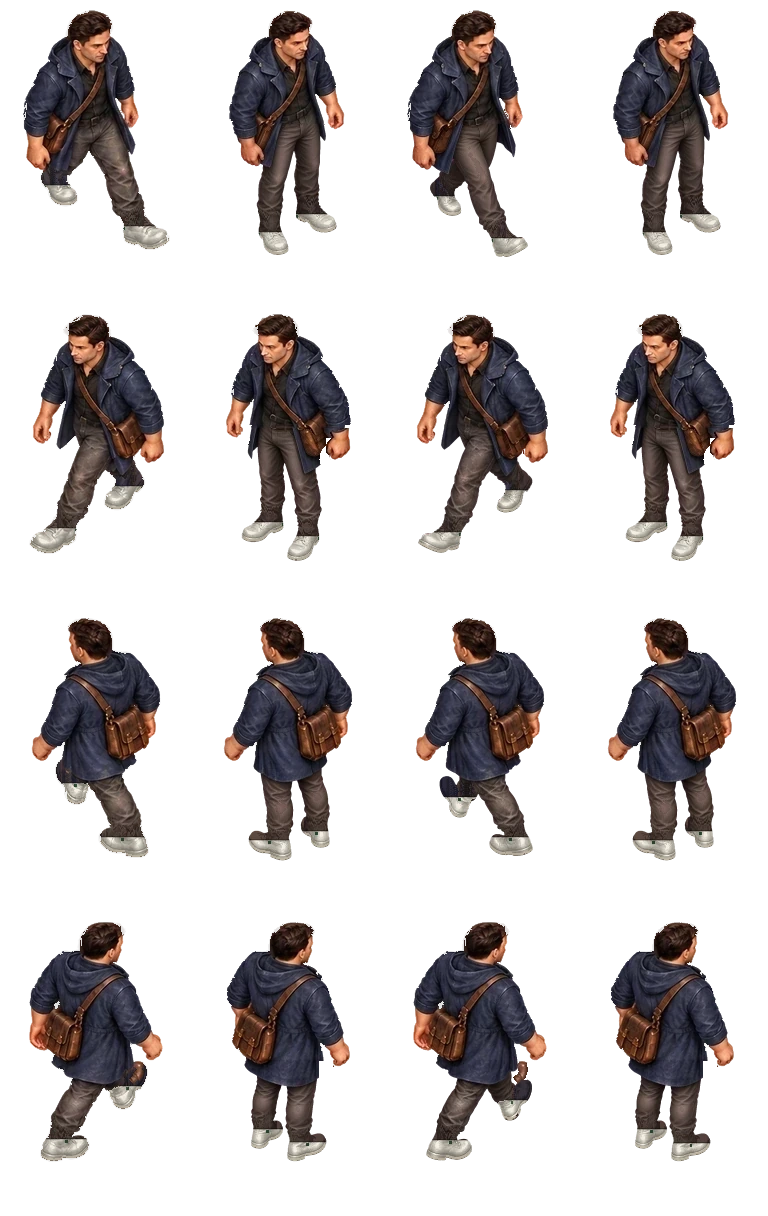
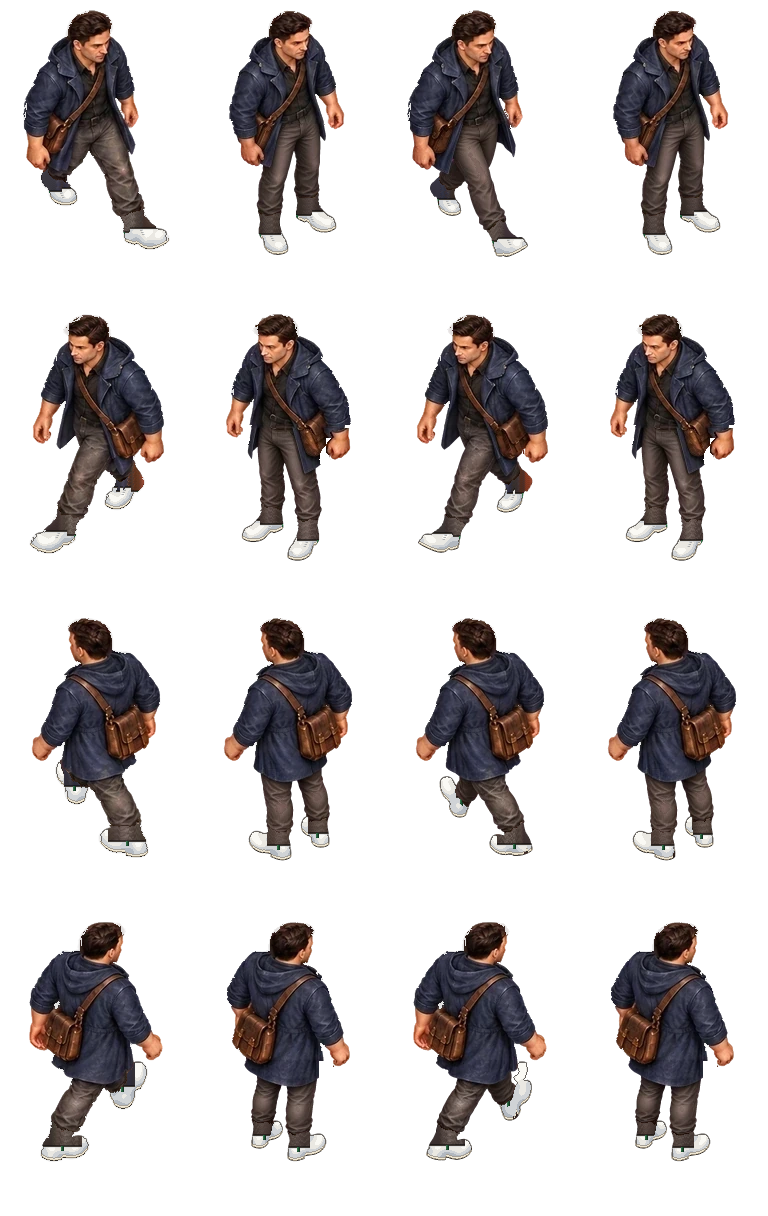
v5.0.9d: sharper Uygar sneakers and opening modal pause fix

diff --git a/world.js b/world.js
@@ -1,18 +1,18 @@
-import {gaitPose,spritePose,boneAffine,kneeFor,footTargets,idleAtlasFor,ensureIdle,stepIdle,gestureFrame} from './animation.js?v=5.0.9c';
+import {gaitPose,spritePose,boneAffine,kneeFor,footTargets,idleAtlasFor,ensureIdle,stepIdle,gestureFrame} from './animation.js?v=5.0.9d';
 import {weatherAt,regionalWeather,hoodRaised} from './weather.js';
 import {equipmentAtlas} from './equipment.js';
 import {readPreferences,savePreference} from './preferences.js';
-import {WORLD_W,WORLD_H,distance,buildGrid,isWalkable,nearestCell,cellCenter,findPath,approachPoint,stepActor,coastTarget,resolveSeparation,separateCrowd,blockActors,facingFrom} from './navigation.js?v=5.0.9c';
+import {WORLD_W,WORLD_H,distance,buildGrid,isWalkable,nearestCell,cellCenter,findPath,approachPoint,stepActor,coastTarget,resolveSeparation,separateCrowd,blockActors,facingFrom} from './navigation.js?v=5.0.9d';
 import {SCENES,sceneId,combatSceneId,combatStaging,makeActors} from './world-data.js';
 
 const imageCache=new Map(),memories=new Map();
 let metadataPromise;
 export function resetWorldMemory(){memories.clear();}
-// v5.0.9c: map backgrounds are 3072x2048 now; keep only the two most recent decoded maps alive (low-RAM phones).
+// v5.0.9d: map backgrounds are 3072x2048 now; keep only the two most recent decoded maps alive (low-RAM phones).
 const recentMaps=[];
 function rememberMap(name){if(!/-map$/.test(name))return;const i=recentMaps.indexOf(name);if(i>=0)recentMaps.splice(i,1);recentMaps.push(name);while(recentMaps.length>2)imageCache.delete(recentMaps.shift());}
-function loadImage(name){rememberMap(name);if(!imageCache.has(name)){imageCache.set(name,new Promise((resolve,reject)=>{const i=new Image();i.onload=()=>resolve(i);i.onerror=()=>{imageCache.delete(name);reject(new Error(`Could not load ${name}`));};i.src=`assets/${name}.webp?v=5.0.9c`;}));}return imageCache.get(name);}
-function loadMetadata(){return metadataPromise??=fetch('assets/sprite-frames.json?v=5.0.9c').then(r=>{if(!r.ok)throw Error('Sprite data unavailable');return r.json();}).catch(e=>{metadataPromise=null;throw e;});}
+function loadImage(name){rememberMap(name);if(!imageCache.has(name)){imageCache.set(name,new Promise((resolve,reject)=>{const i=new Image();i.onload=()=>resolve(i);i.onerror=()=>{imageCache.delete(name);reject(new Error(`Could not load ${name}`));};i.src=`assets/${name}.webp?v=5.0.9d`;}));}return imageCache.get(name);}
+function loadMetadata(){return metadataPromise??=fetch('assets/sprite-frames.json?v=5.0.9d').then(r=>{if(!r.ok)throw Error('Sprite data unavailable');return r.json();}).catch(e=>{metadataPromise=null;throw e;});}
 function annotateFootPads(meta,atlases){
  const canvas=document.createElement('canvas'),ctx=canvas.getContext('2d',{willReadFrequently:true});
  for(const [name,image] of Object.entries(atlases)){
@@ -73,7 +73,7 @@ export class IsometricWorld {
  if(actor.waiting||actor.sheltered||this.target?.actor===actor)return;
  if(actor.held)return;
  if(actor===this.companion&&this.quirk&&(this.quirk.stage==='approach'||this.quirk.stage==='step')&&leader.planted){this.advanceActor(actor,dt);return;}
- // v5.0.9c: a planted brother holds his ground while Uygar walks up to him (instead of shuffling off to the trail point).
+ // v5.0.9d: a planted brother holds his ground while Uygar walks up to him (instead of shuffling off to the trail point).
  if(actor===this.companion){const g=distance(actor,leader),closing=g<(actor.lastGap??1e9)-.05;actor.lastGap=g;if(closing&&g<180&&actor.planted&&!actor.path?.length){actor.velocity=0;actor.moving=false;this.advanceActor(actor,dt);return;}}
  if(actor.idle?.mode==='quirk'&&(leader.planted||this.quirk?.kind==='holdup')){actor.path=[];actor.velocity=0;actor.moving=false;actor.planted=true;this.advanceActor(actor,dt);return;}
  if(actor.dog&&this.updateDogRoam(actor,leader,dt))return;
@@ -160,7 +160,7 @@ export class IsometricWorld {
  this.drag=null;if(!drag||drag.moved||drag.button===2)return;this.click(this.eventPoint(e));
  }
  setSuspended(suspended){this.suspended=suspended;this.keys.clear();this.pointers.clear();this.pinch=null;this.drag=null;if(suspended){this.finishCombat();this.stop();}else this.wake();}
- // v5.0.9c: never zoom past the map art's native texel density (3072px over a 1536-unit world = 2 texels/unit),
+ // v5.0.9d: never zoom past the map art's native texel density (3072px over a 1536-unit world = 2 texels/unit),
  // allowing ~15% upscale; on huge/retina viewports this stops the camera from magnifying blurry pixels.
  maxZoom(){const tex=Math.max(1,((this.background?.naturalWidth||this.background?.width||WORLD_W*2))/WORLD_W);const phys=(this.baseScale||1)*Math.max(1,window.devicePixelRatio||1);return clamp(tex*1.15/phys,1.25,2.1);}
  resize(){if(this.destroyed)return;const r=this.root.getBoundingClientRect();this.width=Math.max(1,r.width);this.height=Math.max(1,r.height);this.dprCap=this.dprCap||(this.economy?1.5:2);this.dpr=Math.min(window.devicePixelRatio||1,this.dprCap);for(const c of [this.canvas,this.back]){c.width=Math.round(this.width*this.dpr);c.height=Math.round(this.height*this.dpr);c.style.width=this.width+'px';c.style.height=this.height+'px';}this.baseScale=Math.max(this.width/WORLD_W,this.height/WORLD_H);if(this.background)this.camera.zoom=Math.min(this.camera.zoom,this.maxZoom());this.scale=this.baseScale*this.camera.zoom;this.clampCamera();this.cameraDirty=true;if(this.ready)this.draw();}
@@ -219,7 +219,7 @@ export class IsometricWorld {
  this.stepLivingWorld(dt);
  if(this.follow&&!this.drag){const targetX=this.player.x,targetY=this.player.y-85,dx=targetX-this.camera.x,dy=targetY-this.camera.y;const deadX=Math.max(48,(this.width/this.scale)*0.20),deadY=Math.max(36,(this.height/this.scale)*0.16);let mx=0,my=0;if(Math.abs(dx)>deadX)mx=dx-Math.sign(dx)*deadX;if(Math.abs(dy)>deadY)my=dy-Math.sign(dy)*deadY;if(mx||my){this.camera.x+=mx*Math.min(1,dt*4);this.camera.y+=my*Math.min(1,dt*4);this.clampCamera();this.cameraDirty=true;}}
  }
- // v5.0.9c: Berkay's two quirks. (1) Personal space: when Uygar steps within ~62 units of a planted Berkay he raises a
+ // v5.0.9d: Berkay's two quirks. (1) Personal space: when Uygar steps within ~62 units of a planted Berkay he raises a
  // palm ("hold up"), then takes one small step back; 12 s cooldown. (2) Every ~20-35 s of a calm, idle party with Pukie
  // close by, Berkay picks Pukie up, hugs him for ~2 s and sets him down beside his boots. Only one Pukie is ever drawn
  // (the ground dog is hidden while held) and the hug cancels the instant Uygar moves, interacts or anything starts.
@@ -417,7 +417,7 @@ export class IsometricWorld {
  else{g.strokeStyle='rgba(228,196,133,.28)';g.lineWidth=1;g.beginPath();for(let i=0;i<14;i++){const x=(i*83)%size,y=(i*67)%size;g.moveTo(x,y);g.lineTo(x+22,y-3);}g.stroke();}
  this.weatherTiles.set(kind,c);return c;
  }
- // v5.0.9c: blit only the visible part of the map (source-rect crop), straight into device pixels.
+ // v5.0.9d: blit only the visible part of the map (source-rect crop), straight into device pixels.
  drawBackgroundView(){const b=this.background,g=this.bctx,iw=b.naturalWidth||b.width||WORLD_W,ih=b.naturalHeight||b.height||WORLD_H,kx=iw/WORLD_W,ky=ih/WORLD_H,s=this.scale,d=this.dpr;
   const vx0=this.camera.x-this.width/2/s,vy0=this.camera.y-this.height/2/s,x0=Math.max(0,Math.floor(vx0)),y0=Math.max(0,Math.floor(vy0)),x1=Math.min(WORLD_W,Math.ceil(vx0+this.width/s)+1),y1=Math.min(WORLD_H,Math.ceil(vy0+this.height/s)+1);
   if(x1<=x0||y1<=y0)return;g.setTransform(1,0,0,1,0,0);
@@ -426,7 +426,7 @@ export class IsometricWorld {
  this.occluderSprites=(this.scene.occluders||[]).map(o=>{
   const xs=o.polygon.map(p=>p[0]),ys=o.polygon.map(p=>p[1]);
   const pad=2,x0=Math.floor(Math.min(...xs))-pad,y0=Math.floor(Math.min(...ys))-pad,x1=Math.ceil(Math.max(...xs))+pad,y1=Math.ceil(Math.max(...ys))+pad;
-  // v5.0.9c: bake at the background's native resolution (maps are now 2x) so foreground occluders stay crisp when zoomed.
+  // v5.0.9d: bake at the background's native resolution (maps are now 2x) so foreground occluders stay crisp when zoomed.
   const k=Math.max(1,Math.min(2,(this.background.naturalWidth||WORLD_W)/WORLD_W));
   const c=document.createElement('canvas');c.width=Math.max(1,Math.round((x1-x0)*k));c.height=Math.max(1,Math.round((y1-y0)*k));
   const g=c.getContext('2d');g.scale(k,k);g.translate(-x0,-y0);polygon(g,o.polygon);g.clip();g.drawImage(this.background,0,0,WORLD_W,WORLD_H);
@@ -518,14 +518,14 @@ export class IsometricWorld {
  const drawH=a.dog?40:a.hero||a.party?102:a.enemy?107:(a.stature||99),pose=spritePose(rect,drawH);
  const mirror=special!=null?!!gait.mirror:!directional&&(face===0||face===3);let ox=0,oy=0;
  if(this.combatFx){const f=this.combatFx;if(a.hero&&f.id==='attack'&&f.age<.38)ox=Math.sin(f.age/.38*Math.PI)*9;if(a.enemy&&f.id==='attack'&&f.age>.17&&f.age<.5&&f.hit>0)ox=Math.sin(f.age*40)*4;}
- const b=rect.bounds||{x:0,y:0,w:rect.w,h:rect.h},footShift=(rect.footPad||0)*pose.height/b.h+(a.dog?1.4:2.2); // v5.0.9c: soles sit inside the contact shadow, not on its rim
+ const b=rect.bounds||{x:0,y:0,w:rect.w,h:rect.h},footShift=(rect.footPad||0)*pose.height/b.h+(a.dog?1.4:2.2); // v5.0.9d: soles sit inside the contact shadow, not on its rim
  ctx.save();
  // v5.0.9: feet stay on the ground line (no rotation, no planted bounce); breathing only lifts the torso above the hip.
  const bob=gait.planted?0:-(gait.lift||0),sway=gait.sway||0;ctx.translate(a.x+ox+sway,a.y+oy+footShift+bob);if(mirror)ctx.scale(-1,1);if(a.filter)ctx.filter=a.filter;
  let rigged=false;
  if(rigged){try{this.drawRig(a,pose,gait,meta,row,frame);}catch{rigged=false;}}
  if(!rigged){const source=pose.source,img=this.atlases[atlas]||(a.hero?this.hero:atlas==='npc-workers'?this.workers:this.npcs),breath=gait.planted?(gait.breath||1):1,shift=gait.planted?(gait.shift||0):0;
-  if(shift){ // v5.0.9c weight shift: legs drawn untouched, torso sheared sideways in thin strips (0 at the hip, max at the crown)
+  if(shift){ // v5.0.9d weight shift: legs drawn untouched, torso sheared sideways in thin strips (0 at the hip, max at the crown)
    const sc=pose.height/source.h,hipSrc=Math.round(source.h*.56),lowH=source.h-hipSrc,hipY=-lowH*sc,amp=shift*1.6*(mirror?-1:1),N=10;
    ctx.drawImage(img,source.x,source.y+hipSrc,source.w,lowH,-pose.width/2,hipY,pose.width,lowH*sc);
    for(let i=0;i<N;i++){const y0=Math.floor(hipSrc*i/N),y1=Math.floor(hipSrc*(i+1)/N),k=1-(i+.5)/N;ctx.drawImage(img,source.x,source.y+y0,source.w,y1-y0+(i<N-1?1:0),-pose.width/2+amp*k,hipY-(hipSrc-y0)*sc*breath,pose.width,(y1-y0+(i<N-1?1:0))*sc*breath);}
@@ -691,6 +691,6 @@ export class IsometricWorld {
  if(this.destroyed)return;memories.set(this.memoryKey||this.id,{x:this.player.x,y:this.player.y,direction:this.player.direction,camera:{...this.camera}});this.destroyed=true;clearTimeout(this.combatTimer);clearTimeout(this.headingTimer);this.combatTimer=null;this.combatFx=null;this.stop();this.listeners.forEach(off=>off());this.resizeObserver?.disconnect();this.intersection?.disconnect();this.keys.clear();this.pointers.clear();
  }
 }
-// v5.0.9c: identity of everything the live scene is built from; when unchanged, app.js re-uses the running world instead of rebuilding it on every UI click.
+// v5.0.9d: identity of everything the live scene is built from; when unchanged, app.js re-uses the running world instead of rebuilding it on every UI click.
 export function worldKey(state){if(!state||state.combat||state.ending)return null;const id=sceneId(state.location);if(!SCENES[id])return null;try{return JSON.stringify([state.location,state.lead,state.gear,state.party,weatherAt(state),regionalWeather(state),makeActors(SCENES[id],state)]);}catch{return null;}}
 export function mountWorld(root,state,callbacks){if(!root?.querySelector?.('.actors-layer')?.getContext)return null;return new IsometricWorld(root,state,callbacks);}

diff --git a/app.js b/app.js
@@ -2,7 +2,7 @@ import {weatherAt,weatherTravel,weatherNotice} from './weather.js';
 import {OUTFITS,WEAPONS,equipmentPortrait,equipmentStats,canEquip,packCapacity,packUsed,packHasRoom} from './equipment.js';
 import {nativeBridge} from './storage.js';
 import {exportCampaign,importCampaign,listenForNativeImports,listenForHardwareBack} from './bridge.js';
-import {mountWorld,resetWorldMemory,worldKey} from './world.js?v=5.0.9c';
+import {mountWorld,resetWorldMemory,worldKey} from './world.js?v=5.0.9d';
 import {SCENES,sceneId,combatSceneId,makeActors} from './world-data.js';
 import {ROLES,SKILLS,ITEMS,LOCATIONS,PEOPLE,CHAPTERS,DIALOGUES,GLOSSARY,BROTHERS,DOG_RULES,STAPLES} from './content.js';
 import {newGame,dispatch,locationActions,objectives,quote,region,keys,epilogue,validateSave,hitChance,partyActions,partyStatus,storyDialogue,upgradeSave} from './engine.js';
@@ -116,7 +116,7 @@ function sidebar(){const ch=CHAPTERS[state.act];return `<aside class="quest-side
 function locationCards(){const current=LOCATIONS[state.location];const list=Object.entries(LOCATIONS).filter(([id,l])=>l.act<=state.act&&l.region===current.region&&id!==state.location);return `<div class="nearby-header"><span class="eyebrow">NEARBY LOCATIONS</span><button class="text-button" data-view="map">All destinations ${icon('arrow')}</button></div><div class="location-grid">${list.map(([id,l])=>`<button class="location-card" data-travel="${id}"><img src="assets/${l.asset}.webp" alt="" style="object-position:${l.position}" loading="lazy"><span class="location-card-shade"></span><span class="location-card-copy"><small>${l.sub}</small><strong>${l.name}</strong></span>${icon('arrow')}</button>`).join('')||'<p class="muted small">No other local destinations. Open the world map to travel.</p>'}</div>`;}
 function worldStage(combat=false){
  const location=LOCATIONS[state.location],area=SCENES[combat?combatSceneId(state):sceneId(state.location)];
- return `<section class="isometric-world ${combat?'in-combat':''}" style="background-image:url('assets/${area.asset}.webp?v=5.0.9c')" aria-label="Interactive isometric scene: ${esc(location.name)}"><canvas class="terrain-layer" aria-hidden="true"></canvas><canvas class="actors-layer" tabindex="0" role="application" aria-label="${combat?'Turn-based encounter. Choose an action in the command panel.':isTouchUi()?'Isometric exploration. Tap to walk, tap characters to approach and talk.':'Isometric exploration. Click to walk, click characters to approach and talk. WASD or arrow keys move, E interacts, Space pauses, L shows names.'}"></canvas><div class="world-vignette"></div><div class="world-heading"><span class="eyebrow gold">${combat?'HOSTILE COUNTERPARTY':location.region.toUpperCase()}</span><h1>${combat?state.combat.name:location.name}</h1><span>${combat?'ROUND '+state.combat.round+' · YOUR TURN':location.sub.toUpperCase()}</span></div><div class="world-tools"><button data-world="names" aria-label="Show character names" aria-pressed="${readPreferences().names}" title="Character names (L)">${icon('person')}</button><button data-world="center" aria-label="Center on your character" title="Center camera (F)">${icon('target')}</button><button data-world="zoom-out" aria-label="Zoom out">−</button><button data-world="zoom-in" aria-label="Zoom in">+</button>${combat?'':`<button data-world="pause" aria-label="Pause movement" aria-pressed="false" title="Pause / resume (Space)">Ⅱ</button>`}<button data-world="fullscreen" aria-label="Expand play area" title="Expand play area">⛶</button></div><div class="world-loading">Entering ${esc(location.name)}…</div><div class="world-status" role="status" aria-live="polite" hidden></div><div class="world-pause-label">PAUSED <small>${isTouchUi()?'TAP TO RESUME':'SPACE TO RESUME'}</small></div><div class="world-map-panel"><canvas class="world-minimap" width="180" height="120" aria-label="Local minimap"></canvas><button data-view="map">${icon('map')} BASIN MAP ${icon('arrow')}</button></div><div class="world-hint">${combat?`${icon('target')} ${hitChance(state)}% HIT CHANCE · ${state.combat.ammo} ROUNDS`:`<span>${isTouchUi()?'TAP TO MOVE':'CLICK TO MOVE'}</span><i></i><span>${isTouchUi()?'TAP A CHARACTER TO TALK':'CLICK A CHARACTER TO TALK'}</span><button data-world="interact">${isTouchUi()?'':'E '}${icon('person')} INTERACT</button>`}</div></section>`;
+ return `<section class="isometric-world ${combat?'in-combat':''}" style="background-image:url('assets/${area.asset}.webp?v=5.0.9d')" aria-label="Interactive isometric scene: ${esc(location.name)}"><canvas class="terrain-layer" aria-hidden="true"></canvas><canvas class="actors-layer" tabindex="0" role="application" aria-label="${combat?'Turn-based encounter. Choose an action in the command panel.':isTouchUi()?'Isometric exploration. Tap to walk, tap characters to approach and talk.':'Isometric exploration. Click to walk, click characters to approach and talk. WASD or arrow keys move, E interacts, Space pauses, L shows names.'}"></canvas><div class="world-vignette"></div><div class="world-heading"><span class="eyebrow gold">${combat?'HOSTILE COUNTERPARTY':location.region.toUpperCase()}</span><h1>${combat?state.combat.name:location.name}</h1><span>${combat?'ROUND '+state.combat.round+' · YOUR TURN':location.sub.toUpperCase()}</span></div><div class="world-tools"><button data-world="names" aria-label="Show character names" aria-pressed="${readPreferences().names}" title="Character names (L)">${icon('person')}</button><button data-world="center" aria-label="Center on your character" title="Center camera (F)">${icon('target')}</button><button data-world="zoom-out" aria-label="Zoom out">−</button><button data-world="zoom-in" aria-label="Zoom in">+</button>${combat?'':`<button data-world="pause" aria-label="Pause movement" aria-pressed="false" title="Pause / resume (Space)">Ⅱ</button>`}<button data-world="fullscreen" aria-label="Expand play area" title="Expand play area">⛶</button></div><div class="world-loading">Entering ${esc(location.name)}…</div><div class="world-status" role="status" aria-live="polite" hidden></div><div class="world-pause-label">PAUSED <small>${isTouchUi()?'TAP TO RESUME':'SPACE TO RESUME'}</small></div><div class="world-map-panel"><canvas class="world-minimap" width="180" height="120" aria-label="Local minimap"></canvas><button data-view="map">${icon('map')} BASIN MAP ${icon('arrow')}</button></div><div class="world-hint">${combat?`${icon('target')} ${hitChance(state)}% HIT CHANCE · ${state.combat.ammo} ROUNDS`:`<span>${isTouchUi()?'TAP TO MOVE':'CLICK TO MOVE'}</span><i></i><span>${isTouchUi()?'TAP A CHARACTER TO TALK':'CLICK A CHARACTER TO TALK'}</span><button data-world="interact">${isTouchUi()?'':'E '}${icon('person')} INTERACT</button>`}</div></section>`;
 }
 function contactCard(){
  const area=SCENES[sceneId(state.location)],actor=makeActors(area,state).find(a=>a.location===state.location),name=actor?.name||LOCATIONS[state.location].sub;
@@ -202,7 +202,7 @@ function render(){
  document.body.classList.toggle('has-ending',!!state?.ending);
  if(state?.ending)hideToast();
  const modalScroll=app.querySelector('.modal')?.scrollTop||0;
- // v5.0.9c: keep the running world (no re-decode / re-bake / re-path) when the UI re-renders around an unchanged scene.
+ // v5.0.9d: keep the running world (no re-decode / re-bake / re-path) when the UI re-renders around an unchanged scene.
  let keep=null;if(world&&!world.destroyed&&world.ready&&state&&!state.ending&&view==='scene'&&!state.combat){const k=worldKey(state);if(k&&k===world.key)keep=world;}
  if(!keep)world?.destroy();world=null;
  const previous=document.activeElement;const focusKey=previous?.dataset?.action;const focusArg=previous?.dataset?.arg;
@@ -219,7 +219,7 @@ function render(){
   }else{
    keep?.destroy();keep=null;
    world=mountWorld(slot,state,cbs);
-   if(world&&modal)world.paused=true;
+   if(world&&modal){world.paused=true;world.modalPaused=true;}
   }
   if(world&&appSuspended)world.setSuspended(true);
  }

diff --git a/index.html b/index.html
@@ -11,7 +11,7 @@
 <link rel="icon" type="image/svg+xml" href="assets/favicon.svg">
 <link rel="apple-touch-icon" sizes="180x180" href="assets/apple-touch-icon.png">
 <link rel="preload" as="image" href="assets/party-camp.webp">
-<link rel="stylesheet" href="style.css?v=5.0.9c">
+<link rel="stylesheet" href="style.css?v=5.0.9d">
 </head>
-<body><div id="rotate-prompt" role="dialog" aria-label="Please rotate your device"><div class="rotate-card"><strong>Please rotate your device</strong><p>Age of Abundance is designed to be played in portrait. Turn your phone upright to continue.</p></div></div><div id="app"></div><div id="toast" role="status" aria-live="polite"></div><input type="file" id="save-import" accept="application/json,.json" hidden><noscript>This game requires JavaScript. All progress is stored on your device.</noscript><script type="module" src="app.js?v=5.0.9c"></script></body>
+<body><div id="rotate-prompt" role="dialog" aria-label="Please rotate your device"><div class="rotate-card"><strong>Please rotate your device</strong><p>Age of Abundance is designed to be played in portrait. Turn your phone upright to continue.</p></div></div><div id="app"></div><div id="toast" role="status" aria-live="polite"></div><input type="file" id="save-import" accept="application/json,.json" hidden><noscript>This game requires JavaScript. All progress is stored on your device.</noscript><script type="module" src="app.js?v=5.0.9d"></script></body>
 </html>
